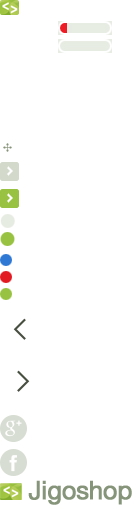
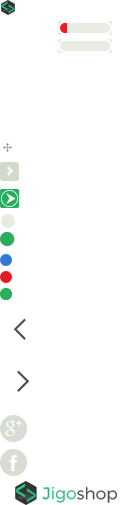
update logotypes, fix admin order and product search

diff --git a/assets/less/admin/dashboard.less b/assets/less/admin/dashboard.less
@@ -147,7 +147,7 @@ div.pages ul.pages {
 .toplevel_page_jigoshop #jigoshop-metaboxes-main h3 {
   text-indent: -9999999px;
   padding: 0;
-  margin: 35px 0 10px 22px;
+  margin: 35px 0 10px;
   display: inline-block;
   height: 25px;
   width: 132px;

diff --git a/src/Jigoshop/Query/Interceptor.php b/src/Jigoshop/Query/Interceptor.php
@@ -72,7 +72,7 @@ class Interceptor
 
 	public function intercept($request)
 	{
-        if ($this->intercepted || $this->wp->isAdmin()) {
+        if ($this->intercepted) {
             return $request;
         }
         $this->intercepted = true;
@@ -82,30 +82,39 @@ class Interceptor
 
 	private function parseRequest($request)
 	{
-		if ($this->isCart($request)) {
-			return $this->wp->applyFilters('jigoshop\query\cart', $request, $request);
-		}
+        if(is_admin() == false) {
+            if ($this->isCart($request)) {
+                return $this->wp->applyFilters('jigoshop\query\cart', $request, $request);
+            }
 
+            if ($this->isProductCategory($request)) {
+                return $this->getProductCategoryListQuery($request);
+            }
 
-        if ($this->isProductCategory($request)) {
-            return $this->getProductCategoryListQuery($request);
+            if ($this->isProductTag($request)) {
+                return $this->getProductTagListQuery($request);
+            }
+
+            if ($this->isProductList($request)) {
+                return $this->getProductListQuery($request);
+            }
+
+            if ($this->isProduct($request)) {
+                return $this->getProductQuery($request);
+            }
+
+            if ($this->isAccount($request)) {
+                return $this->wp->applyFilters('jigoshop\query\account', $request, $request);
+            }
+        } else {
+            if ($this->isAdminOrderList($request)) {
+                return $this->getAdminOrderListQuery($request);
+            }
+
+            if ($this->isAdminProductList($request)) {
+                return $this->getAdminProductListQuery($request);
+            }
         }
-
-        if ($this->isProductTag($request)) {
-            return $this->getProductTagListQuery($request);
-        }
-
-        if ($this->isProductList($request)) {
-            return $this->getProductListQuery($request);
-        }
-
-        if ($this->isProduct($request)) {
-            return $this->getProductQuery($request);
-		}
-
-		if ($this->isAccount($request)) {
-			return $this->wp->applyFilters('jigoshop\query\account', $request, $request);
-		}
 
 		return $request;
 	}
@@ -222,4 +231,51 @@ class Interceptor
 	{
 		return isset($request['pagename']) && $request['pagename'] == Pages::SHOP;
 	}
+
+	private function isAdminOrderList($request)
+    {
+        return $this->wp->getPageNow() == 'edit.php' && isset($request['post_type']) && $request['post_type'] == Types::ORDER;
+    }
+
+    private function getAdminOrderListQuery($request)
+    {
+        if(isset($request['s'])) {
+            $wpdb = $this->wp->getWPDB();
+            $ids = $wpdb->get_results($wpdb->prepare("SELECT posts.ID as ID FROM {$wpdb->posts} as posts
+                INNER JOIN {$wpdb->postmeta} as meta ON (meta.post_id = posts.ID AND meta.meta_key = 'number')
+                INNER JOIN {$wpdb->postmeta} as meta2 ON (meta2.post_id = posts.ID AND meta2.meta_key = 'customer')
+                WHERE meta.meta_value LIKE %s OR meta2.meta_value LIKE %s OR posts.ID = %d",
+                '%'.$request['s'].'%', '%:"%'.$request['s'].'%";%', $request['s']), ARRAY_A);
+
+            unset($request['s']);
+            unset($request['m']);
+            $request['post__in'] = array_map(function($item){ return $item['ID']; }, $ids);
+            $request['post__in'] = count($request['post__in']) ? $request['post__in'] : [0];
+        }
+
+        return $request;
+    }
+
+    private function isAdminProductList($request)
+    {
+        return $this->wp->getPageNow() == 'edit.php' && isset($request['post_type']) && $request['post_type'] == Types::PRODUCT;
+    }
+
+    private function getAdminProductListQuery($request)
+    {
+        if(isset($request['s'])) {
+            $wpdb = $this->wp->getWPDB();
+            $ids = $wpdb->get_results($wpdb->prepare("SELECT posts.ID as ID FROM {$wpdb->posts} as posts
+                INNER JOIN {$wpdb->postmeta} as meta ON (meta.post_id = posts.ID AND meta.meta_key = 'sku')
+                WHERE meta.meta_value LIKE %s OR posts.post_title LIKE %s OR posts.post_content LIKE %s OR posts.ID = %d",
+                '%'.$request['s'].'%', '%'.$request['s'].'%', '%'.$request['s'].'%', $request['s']), ARRAY_A);
+
+            unset($request['s']);
+            unset($request['m']);
+            $request['post__in'] = array_map(function($item){ return $item['ID']; }, $ids);
+            $request['post__in'] = count($request['post__in']) ? $request['post__in'] : [0];
+        }
+
+        return $request;
+    }
 }

diff --git a/templates/admin/order/item/variable.php b/templates/admin/order/item/variable.php
@@ -10,7 +10,8 @@ use Jigoshop\Helper\Product;
 $id = $item->getKey();
 /** @var \Jigoshop\Entity\Product\Variable $product */
 $product = $item->getProduct();
-$variation = $product->getVariation($item->getMeta('variation_id')->getValue());
+$meta = $item->getMeta('variation_id');
+$variation = $meta ? $product->getVariation($meta->getValue()) : null;
 $product = $variation ? $variation->getProduct() : $product;
 ?>
 <tr data-id="<?php echo $id; ?>" data-product="<?php echo $product->getId(); ?>">

diff --git a/templates/admin/dashboard.php b/templates/admin/dashboard.php
@@ -7,7 +7,7 @@
 	<form action="admin-post.php" method="post">
 		<h3><?php _e('Jigoshop Dashboard', 'jigoshop'); ?></h3>
 
-		<p id="wp-version-message"><?php _e('You are using', 'jigoshop'); ?>
+		<p id="wp-version-message"><?php _e('You are using version:	', 'jigoshop'); ?>
 			<strong><?php echo \Jigoshop\Core::VERSION; ?></strong>
 		</p>
 

diff --git a/CHANGELOG.md b/CHANGELOG.md
@@ -2,5 +2,7 @@
 
 * 2.0.1:
     * Fix: Migration alert message.
+    * Fix: Updated Jigoshop logotypes.
+    * Fix: Admin Order and Product list search.
 * 2.0.0 - 2016.10.27:
     * Full rewrite of core.
